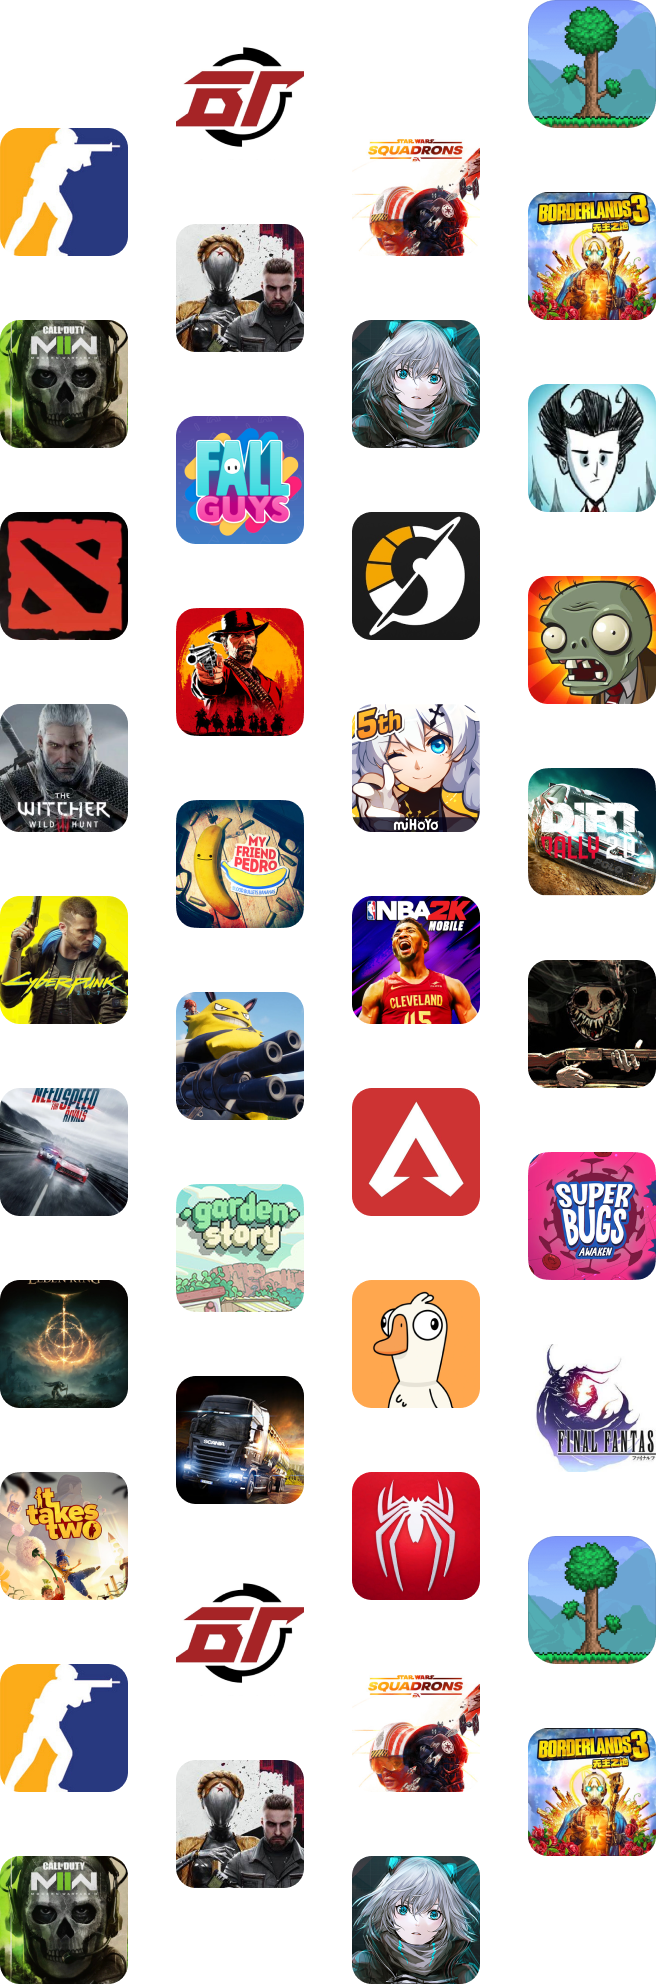
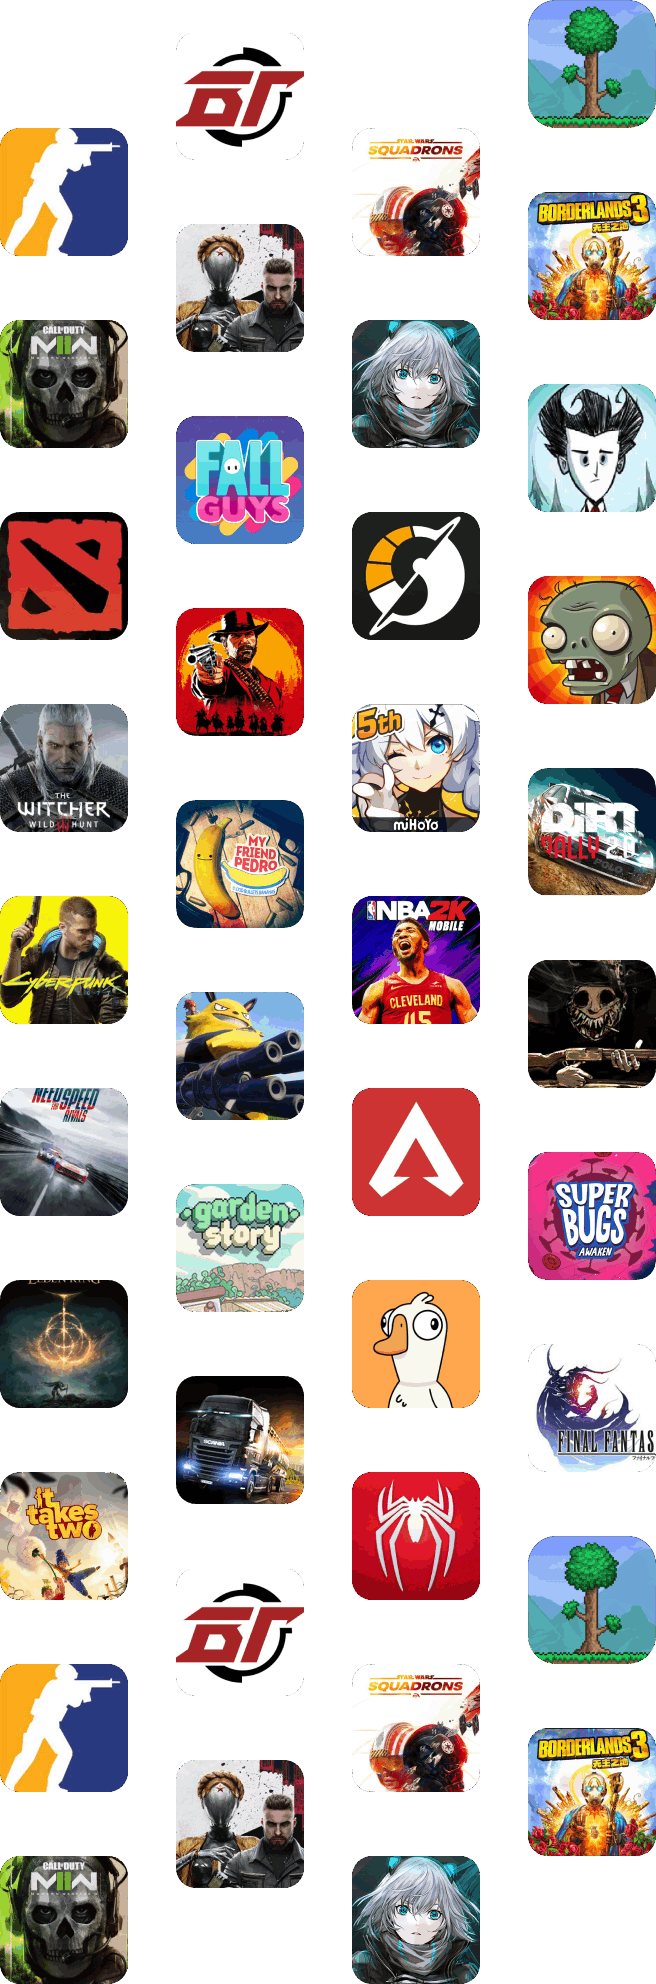
下载游戏，分测试版+弹框；图片等样式优化

diff --git a/index.html b/index.html
@@ -58,6 +58,7 @@
             <div><i class="iconfont icon-Frame61"></i>移动端</div>
           </div>
         </div>
+        <div class="download-new" onclick="downloadNew()">测试版（适用西北3区 华东1和22区）</div>
        </div>
         <div class="banner-right">
       </div>
@@ -121,8 +122,7 @@
       </div>
       
       <div class="more-game-right">
-        <div class="more-game-right-content">
-        </div>
+        <img class="more-game-right-content" src = "./images/game-list2.png"/>
       </div>
     </div>
   </div>
@@ -404,8 +404,8 @@
 
   <!-- 弹框下载更多游戏开始 -->
   <div class="more-game-download-wrap">
-    <div class="more-game-download-mask common-mask" onclick="handleMaskClick(event)"></div>
-    <div class="more-game-download">
+    <div class="more-game-download-mask common-mask" onclick="handleMaskClick(event, 'more-game-download')"></div>
+    <div class="more-game-download common-mask-content">
        <div class="more-game-download-right">
         <span class="more-game-download-close" onclick="closePopup()"><i class="iconfont icon-a-Maskgroup"></i></span>
         <div class="more-game-download-title">下载客户端，即可搜索更多游戏！！</div>
@@ -422,6 +422,26 @@
     </div>
   </div>
   <!-- 弹框下载更多游戏结束 -->
+
+   <!-- 弹框下载新版游戏开始 -->
+  <div class="new-client-mask" id="new-client-mask">
+    <div class="common-mask" onclick="handleMaskClick(event, 'common-mask-content')"></div>
+    <div class="common-mask-content download-new-con">
+      <div class="more-game-download-right">
+        <span class="more-game-download-close" onclick="closeDownNew()"><i class="iconfont icon-a-Maskgroup"></i></span>
+        <div class="more-game-download-title">测试版（适用西北3区 华东1区和22区）</div>
+        <div class="more-game-pc-download">
+          <a><div class="more-game-mac-download"><i class="iconfont icon-Frame41"></i>苹果MAC版下载</div></a>
+          <div class="more-game-window-download"><i class="iconfont icon-Vector1"></i>Windows版下载</div>
+        </div>
+        <div class="more-game-mobile-download">
+          <div id="app-download-qrcode-more"></div>
+          <div><i class="iconfont icon-Frame61"></i>移动端</div>
+        </div>
+      </div>
+    </div>
+  </div>
+  <!-- 弹框下载新版游戏结束 -->
 
   <!-- 弹框联系客服输入手机号开始 -->
   <div class="online-mobile-wrap online-service-wrapper">
@@ -458,20 +478,32 @@
       document.getElementsByClassName('more-game-download-wrap')[0].style.display = 'block'
     }
 
-    function handleMaskClick(event) {  
+    function handleMaskClick(event, className) {  
       // 检查点击的目标元素或其父元素是否包含more-game-download类名  
       var target = event.target;  
       while (target && target !== document.body) {  
-        if (target.classList.contains('more-game-download')) {  
+        if (target.classList.contains(className)) {  
           return;  
         }  
         target = target.parentNode;  
       }  
-      closePopup();  
+      if (className === 'more-game-download') {
+        closePopup();  
+      } else {
+        closeDownNew()
+      }
     }  
 
     function closePopup() {  
       document.getElementsByClassName('more-game-download-wrap')[0].style.display = 'none';  
+    }
+
+    function closeDownNew() {
+      document.getElementById('new-client-mask').style.display = 'none'
+    }
+
+    function downloadNew () {
+      document.getElementById('new-client-mask').style.display = 'block'
     }
   </script>
 

diff --git a/index.css b/index.css
@@ -66,6 +66,7 @@
 .banner-line3 {
   color: #fff;
   font-size: 24px;
+  margin-bottom: 8px;
 }
 .banner-line3 .iconfont {
   font-size: 24px;
@@ -80,24 +81,23 @@
   vertical-align: top;
   
 }
-.download-windows {
-  height: 80px;
-  line-height: 80px;
-  margin-bottom: 8px;
-  background-color: #373737;
-  cursor: pointer;
-  color: #fff;
+
+.download-new {
+  width: 469px;
+  font-size: 24px;
+  text-align: center;
 }
-.download-windows:hover, .download-mac:hover, .banner-mobile-download:hover {
+.download-windows:hover, .download-mac:hover, .banner-mobile-download:hover, .download-new:hover {
   background-color: #505050;
 }
 
-.download-mac {
+.download-mac, .download-windows, .download-new {
   height: 80px;
   line-height: 80px;
   background-color: #373737;
   cursor: pointer;
   color: #fff;
+  margin-bottom: 8px;
 }
 .banner-mobile-download {
   padding-top: 16px;
@@ -169,20 +169,22 @@
 }
 
 .more-game-right-content {
-  width: 100%;
-  height: 100%;
-  background: url('./images/game-list2.png') repeat-y;
-  animation: scrollMoreGame 5s linear infinite;
-  -webkit-animation: scrollMoreGame 5s linear infinite;
+  width: 656px;
+  animation: scrollMoreGame 7s linear infinite;
+  -webkit-animation: scrollMoreGame 7s linear infinite;
 }
 
 @keyframes scrollMoreGame {
   0% {
-    background-position: 0, 0;
+    transform: translateY(0);
   }
   100% {
-    background-position: 0 100%;
-  }
+    transform: translateY(-72%);
+    -webkit-transform: translateY(-72%);
+    -moz-transform: translateY(-72%);
+    -ms-transform: translateY(-72%);
+    -o-transform: translateY(-72%);
+}
 }
 
 
@@ -202,11 +204,12 @@
 .more-game-download-wrap {
   display: none;
 }
-
-.more-game-download {
+#new-client-mask {
+  display: none;
+}
+.common-mask-content {
   width: 1200px;
   height: 477px;
-  background: url('./images/download-bg.png');
   position: absolute;
   top: 50%;
   margin-top: -238px;
@@ -215,6 +218,15 @@
   padding-right: 34px;
   z-index: 4;
 }
+.more-game-download {
+  background: url('./images/download-bg.png');
+}
+.download-new-con {
+  background: url('./images/more-client-bg.png');
+}
+
+
+
 .more-game-download-right {
   margin-left: 742px;
   padding-top: 145px;
